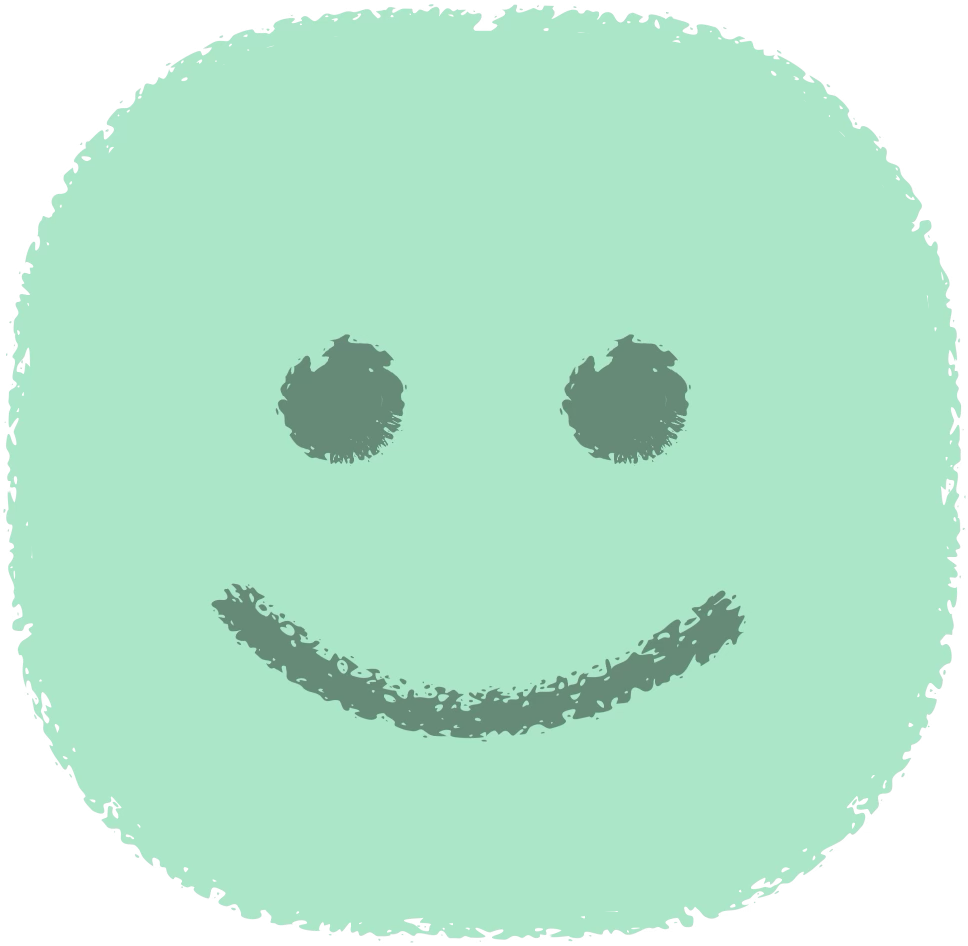
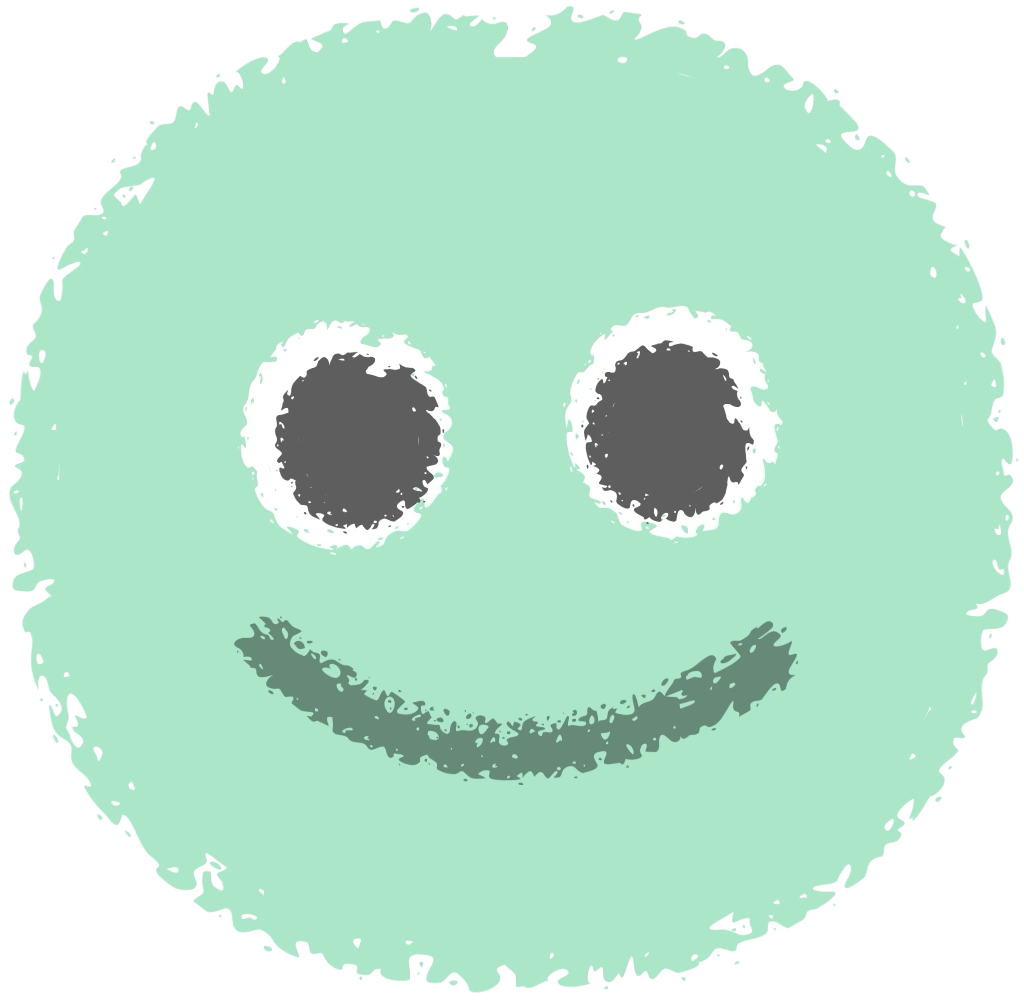
style: 감정 이모티콘 파일 수정 및 적용

diff --git a/front/src/app/app/page.tsx b/front/src/app/app/page.tsx
@@ -64,10 +64,9 @@ const Page = () => {
 
       <Img src={emotions} priority width={400} height={400} alt='emotions'></Img>
 
-      <TextContent>
-        <span>좋은 습관을 만들고 나를 돌아보며</span>
+      {/* <TextContent>
         <span>매일 매일 함께 성장해요!</span>
-      </TextContent>
+      </TextContent> */}
       {isSuccess ?
         <LoggedInButtonWrapper >
           <LoggedInButtonStart className={user?.provider} onClick={start}>
@@ -126,14 +125,16 @@ const Wrapper = styled.div`
 const Img = styled(Image)`
   object-fit: contain;
   width: 350px;
-  margin: 24px 0;
   @media (max-width: 479px) { //mobile port
-    margin: 56px 0;
+    margin: 32px 0;
     width: 70dvw;
   }
   @media (min-width:480px) and (max-width:1023px) { //mobild land + tablet
     width: auto;
-    height: 80px;
+    height: 156px;
+  }
+  @media (min-width:1024px) { //desktop
+    margin: 30px 0;
   }
 `;
 const TextContent = styled.div`
@@ -143,7 +144,7 @@ const TextContent = styled.div`
     text-align: center;
     color: rgb(var(--greyTitle));
     font-weight: 500;
-    line-height: 130%;    
+    line-height: 100%;    
   }
   @media (max-width: 479px) { //mobile port
     span{ font-size: 20px; }
@@ -169,7 +170,7 @@ const Logo = styled.div`
       margin: 0 4px;
       font-weight: 700;
       text-transform: uppercase;
-      text-transform: capitalize;
+      /* text-transform: capitalize; */
       line-height: 100%;
       text-align: center;
       color: rgb(var(--greyTitle));
@@ -188,7 +189,7 @@ const Logo = styled.div`
   @media (max-width: 479px) { //mobile port
     .main{
       span{
-        font-size: 42px;
+        font-size: 36px;
       }
     }
     .sub{
@@ -209,7 +210,7 @@ const Logo = styled.div`
   @media (min-width:1024px) { //desktop
     .main{
       span{
-        font-size: 56px;
+        font-size: 48px;
       }
     }
     .sub{

diff --git a/front/src/component/intro/IntroMobile.tsx b/front/src/component/intro/IntroMobile.tsx
@@ -14,7 +14,7 @@ import habitinfo2 from '/public/img/intro/habitinfo2.png';
 import setting from '/public/img/intro/setting.png';
 import habitorder from '/public/img/intro/habitorder.png';
 
-import emotions2 from '/public/img/intro/emotions2.png';
+import emotions from '/public/img/emotion/emotions.png';
 import habitbox from '/public/img/intro/habitbox.png';
 import otherinfo1 from '/public/img/intro/otherinfo1.png';
 import otherinfo2 from '/public/img/intro/otherinfo2.png';
@@ -154,7 +154,7 @@ const IntroMobile = () => {
         <span>감정을 정리하고 기록하세요.</span>
         <span>긍정적 변화가 시작됩니다.</span>
       </Text>
-      <Img className="emotionImg" src={emotions2} alt="emotions2" width={700} height={700}></Img>
+      <Img className="emotionImg" src={emotions} alt="emotions" width={700} height={700}></Img>
       <ColWrapper>
         <SubText>'기쁨', '행복', '무난한 감정', '슬픔', '분노'</SubText>
         <SubText>5가지 감정 선택을 지원합니다.</SubText>

diff --git a/front/src/component/intro/IntroDesktop.tsx b/front/src/component/intro/IntroDesktop.tsx
@@ -16,7 +16,7 @@ import habitinfo1 from '/public/img/intro/habitinfo1.png';
 import habitinfo2 from '/public/img/intro/habitinfo2.png';
 import setting from '/public/img/intro/setting.png';
 import habitorder from '/public/img/intro/habitorder.png';
-import emotions2 from '/public/img/intro/emotions2.png';
+import emotions from '/public/img/emotion/emotions.png';
 import habitbox from '/public/img/intro/habitbox.png';
 import otherinfo1 from '/public/img/intro/otherinfo1.png';
 import otherinfo2 from '/public/img/intro/otherinfo2.png';
@@ -159,7 +159,7 @@ const IntroDesktop = () => {
     </Desktop_Section>
     <Desktop_Section className="emotion">
       <section>
-        <Img className="emotionImg" src={emotions2} alt="emotions2" width={700} height={700}></Img>
+        <Img className="emotionImg" src={emotions} alt="emotions" width={700} height={700}></Img>
       </section>
       <section>
         <Title>#emotions</Title>

diff --git a/front/src/component/calendar/Calendar.tsx b/front/src/component/calendar/Calendar.tsx
@@ -209,9 +209,12 @@ const DateValue_Date = styled.div`
 `
 const DateValue_Diary = styled.div`
   position: relative;
-
   width: 75%;
   height: auto;
+  display: flex;
+  justify-content: center;
+
+
   @media (min-width:1024px) { //desktop
     width: 30px;
   }
@@ -246,7 +249,8 @@ const DateValue_Diary = styled.div`
       font-size: 12px;
       width: 20px;
       height: 20px;
-      border-color: #f6f6f6;
+      border : none;
+      /* border-color: #f6f6f6; */
     }
   }
 `

diff --git a/front/src/component/list/EmotionSelection.tsx b/front/src/component/list/EmotionSelection.tsx
@@ -72,6 +72,7 @@ const EmotionWrapper = styled.div`
     justify-content: center;
     align-items: center;
     flex-shrink: 0;
+    height: auto;
 
     border-radius: 72px;
 
